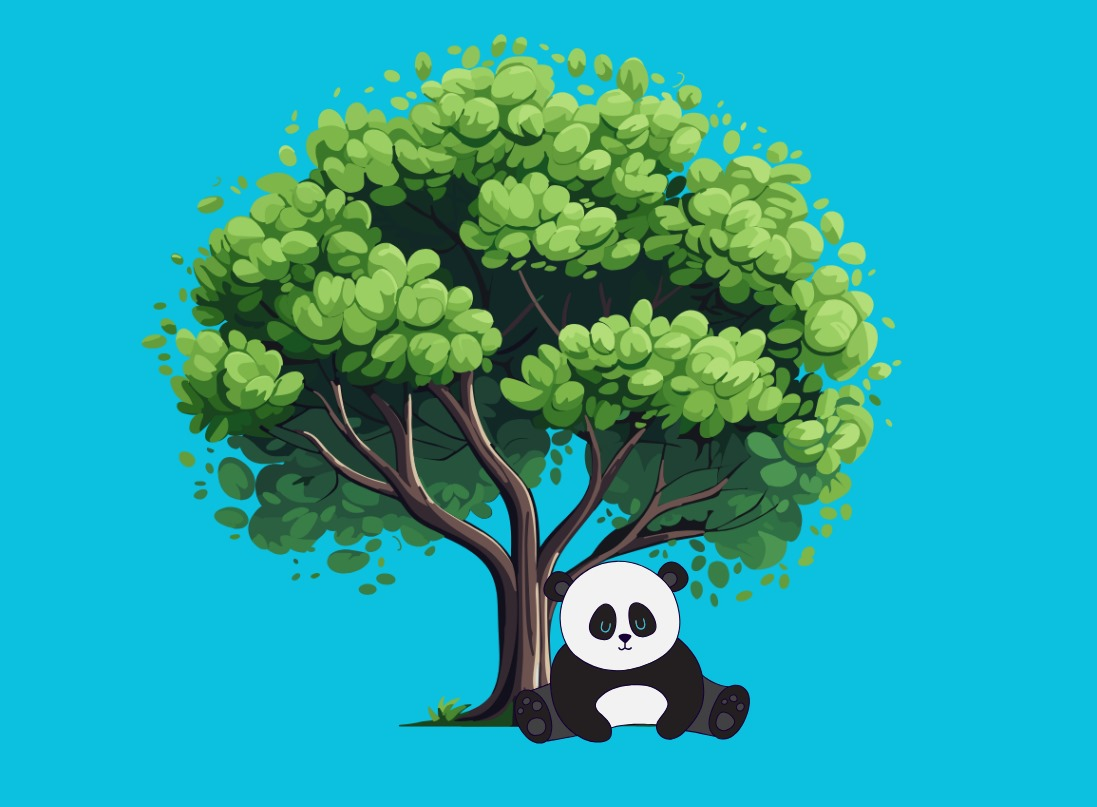
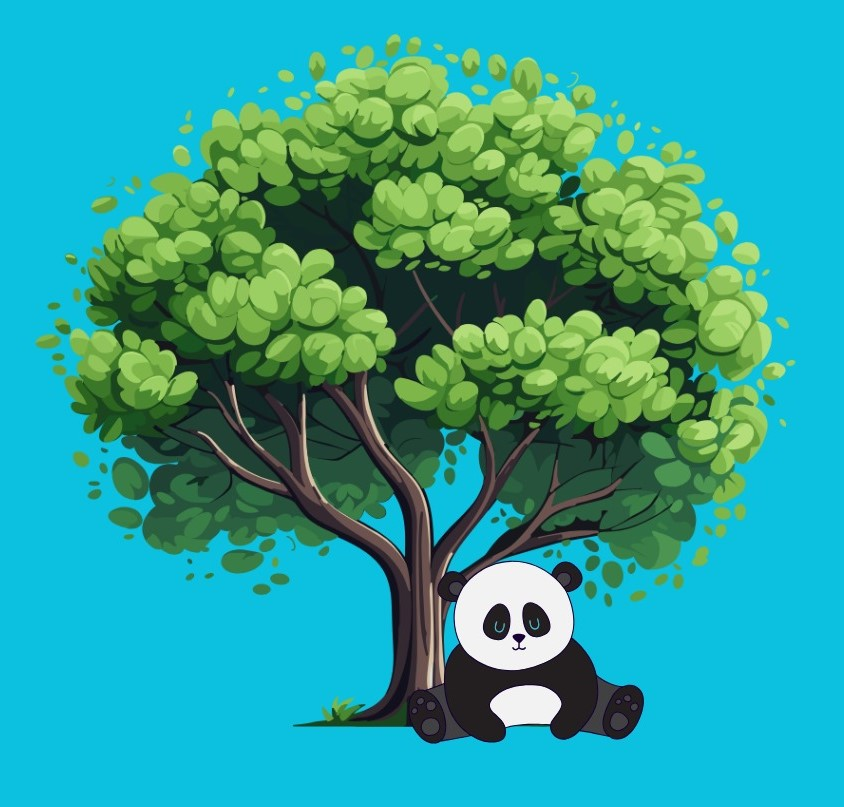
games

diff --git a/CSS/Games.css b/CSS/Games.css
@@ -87,10 +87,124 @@ h1{
   span{
     cursor: pointer; 
   }
-  span i{
+  .exit i{
     transform: scaleX(-1);
     margin-left: -590px;
     margin-top: 20px;
     position: absolute;
     color: #ffffff;
   }
+
+
+
+
+  .box {
+    position: absolute;
+    top: 0;
+    right: 0;
+    width: 250px;
+    height: 250px;
+}
+
+.dropdown {
+    /*position: relative;*/
+    width: 100%;
+    height: 60px;
+    background: #e74c3c;
+    color: #fff;
+    font-size: 22px;
+    display: flex;
+    justify-content: center;
+    align-items: center;
+    border-radius: 5px;
+    cursor: pointer;
+    box-shadow: 0 5px 10px rgba(0, 0, 0, .2);
+}
+
+.dropdown .left-icon,
+.dropdown .right-icon {
+    position: relative;
+    top: 2px;
+    display: inline-block;
+    width: 15px;
+    height: 5px;
+    background: #fff;
+    border-radius: 40px;
+    transition: .5s;
+}
+
+.dropdown .left-icon {
+    left: 7px;
+    transform: rotate(45deg);
+}
+
+.dropdown.active .left-icon {
+    transform: rotate(135deg);
+}
+
+.dropdown .right-icon {
+    transform: rotate(-45deg);
+}
+
+.dropdown.active .right-icon {
+    transform: rotate(-135deg);
+}
+
+.dropdown .items {
+    position: absolute;
+    top: 0;
+    left: 0;
+    width: 100%;
+    height: 160px;
+    margin-top: 63px;
+    overflow: hidden;
+    visibility: hidden;
+    transition: .5s;
+}
+
+.dropdown.active .items {
+    visibility: visible;
+}
+
+.dropdown .items a {
+    position: relative;
+    left: 100%;
+    display: flex;
+    font-size: 20px;
+    background: #fff;
+    color:#e74c3c;
+    text-decoration: none;
+    border-radius: 5px;
+    padding: 10px 15px;
+    margin-top: 2.5px;
+    z-index: 1;
+    overflow: hidden;
+    transition: .5s;
+    transition-delay: calc(60ms * var(--i));
+}
+
+.dropdown.active .items a {
+    left: 0;
+}
+
+.dropdown .items a:hover {
+    color: #fff;
+}
+
+.dropdown .items a span {
+    position: absolute;
+    top: 0;
+    left: 0;
+    width: 100%;
+    height: 100%;
+    background: #e74c3c;
+    z-index: -1;
+    border-radius: inherit;
+    transform: rotate(160deg);
+    transform-origin: right;
+    transition: .5s;
+}
+
+.dropdown .items a:hover span {
+    transform: rotate(0deg);
+}

diff --git a/HTML/Games.html b/HTML/Games.html
@@ -8,10 +8,22 @@
     <link rel="icon" href="/IMAGES/logo.jpg">
     <link href="https://fonts.googleapis.com/css2?family=Baloo&family=Comic+Sans+MS&family=Fredoka+One&family=Quicksand:wght@500&display=swap" rel="stylesheet">
     <link rel="stylesheet" href="https://cdnjs.cloudflare.com/ajax/libs/font-awesome/4.7.0/css/font-awesome.min.css">
-</head>
+
+   </head>
 <body>
-   <span onclick="exit()"> <i class="fa fa-sign-out" style="font-size:48px;"></i></span>
-  
+   <span class="exit" onclick="exit()"> <i class="fa fa-sign-out" style="font-size:48px;"></i></span>
+   <div class="box">
+      <div class="dropdown">
+         <i class='fas fa-user-alt'></i>
+          <span class="left-icon"></span>
+          <span class="right-icon"></span>
+          <div class="items">
+              <a href="#" style="--i:1;"><span><i class='fas fa-user-alt' style='font-size:24px'></i></span>My profile</a>
+              <a href="#" style="--i:2;"><span></span>CSS</a>
+              <a href="#" style="--i:3;"><span></span>Log out</a>
+          </div>
+      </div>
+  </div>
    <h1 class="title">
      GAMES
    </h1> 

diff --git a/CSS/main.css b/CSS/main.css
@@ -63,7 +63,7 @@ body {
 }
 
 .panda-img {
-    width: 450px;
+    width: 440px;
     height: 400px;
     position: absolute;
     bottom: 0;
@@ -72,12 +72,13 @@ body {
 }
 
 .title {
+    margin-top: 200px;
     font-size: 4em;
     font-weight: bold;
     color: black;
     font-family: "Comic Sans MS", "Comic Sans", cursive;
     text-align: center;
-    z-index: 2;
+    /*z-index: 2;*/
     
 }
 
@@ -88,11 +89,15 @@ body {
     padding: 10px 20px;
     background-color: transparent;
     color: white;
-    border: none;
+    /*border: none;*/
+    border-radius: 10px;
     font-size: 1.6em;
     font-family:'Courier New', Courier, monospace;
     font-weight: bold;
     cursor: pointer;
+}
+.button:hover{
+    background-color: #0d6d7e;
 }
 
 .cloud {
@@ -100,7 +105,7 @@ body {
     left:0;
     background: white;
     border-radius: 1000px;
-    z-index: 1;
+   /* z-index: 1;*/
     animation:zoomies 15s infinite linear;
 }
 

diff --git a/HTML/Home.html b/HTML/Home.html
@@ -22,16 +22,16 @@
     <title>Panda</title> 
 </head>
 <body>
+    
     <div class="cloud one"></div>
     <div class="cloud two"></div>
     <div class="cloud three"></div>
     <div class="cloud four"></div>
     <div class="cloud five"></div>
+    <h1 class="title">Panda Games</h1>
     <img src="/IMAGES/pandaAndTree.jpg" class="panda-img" alt="Panda Image">
     <!--<img src="/IMAGES/panda13.jpg" class="panda-img" alt="Jumping Panda">-->
-    <h1 class="title">Panda Games</h1>
     <button class="button" onclick="openLogIn()">Let's Start</button>
-    overflow: hidden;
     <script src ="/JS/home.js">   
     </script>
 </body>

diff --git a/JS/Games.js b/JS/Games.js
@@ -20,3 +20,9 @@ function openGame3(){
 function exit(){
     window.location.href = 'Home.html';
 }
+//כאשר לוחצים על הפרופיל אז נפתח פרטים לגבי השחקן
+const dropdown = document.querySelector('.dropdown');
+
+dropdown.addEventListener('click', () => {
+    dropdown.classList.toggle('active');
+});
